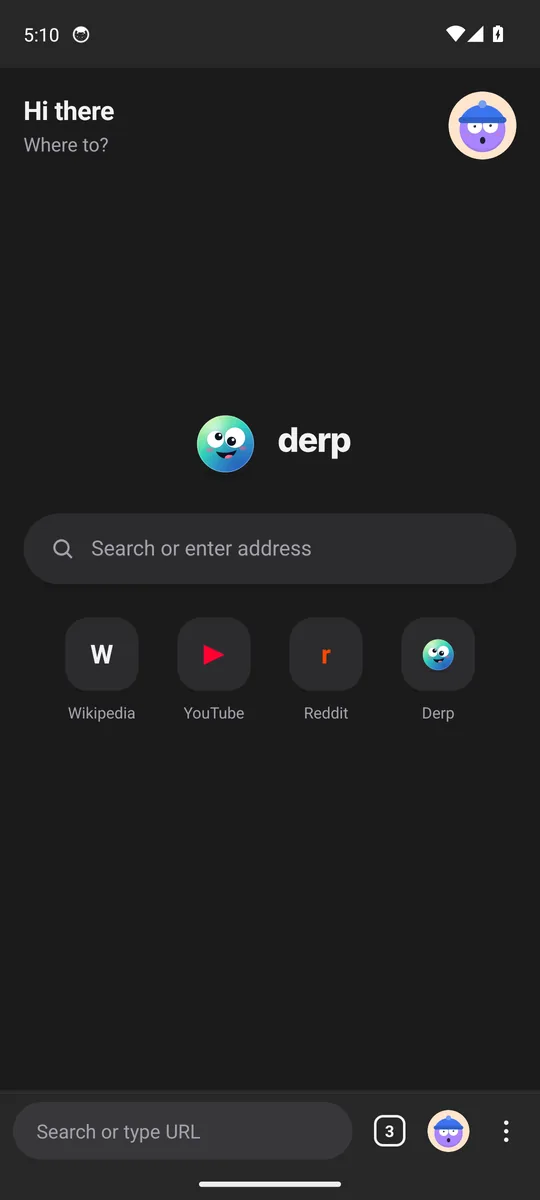
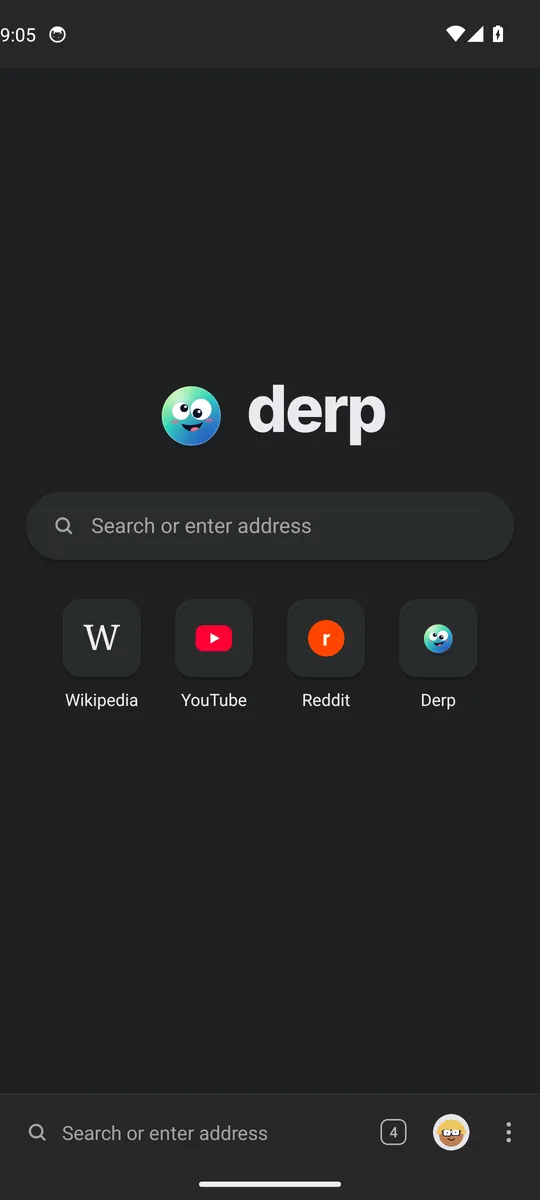
Website and README: Derp for Android's new look

diff --git a/README.md b/README.md
@@ -182,9 +182,11 @@ Derp for Android with it, tests it on an emulator, and releases a patch
 version of Derp (for example 1.4.0 → 1.4.1), which installed copies then
 pick up. The version in use is `android/geckoview-version.txt`.
 
-- Derp's look on a phone: one bottom toolbar (address bar, tabs, your dork,
-  menu), a tabs view, private tabs, and the lime-teal-blue loading bar.
-  Follows light and dark mode.
+- Desktop Derp's look: its colors and icons, an address bar with no pill
+  until you type, and the lime-teal-blue loading shimmer. Phones have one
+  bottom toolbar (address bar, tabs, your dork, menu) and a tabs view;
+  tablets have desktop's tab strip with folder tabs, and back, forward and
+  reload in the toolbar. Private tabs, and light and dark mode.
 - **Your dork** is here too, drawn by the same code as desktop Derp, and the
   first start has you make it.
 - Strict tracking protection (social trackers too), tracking parameters
